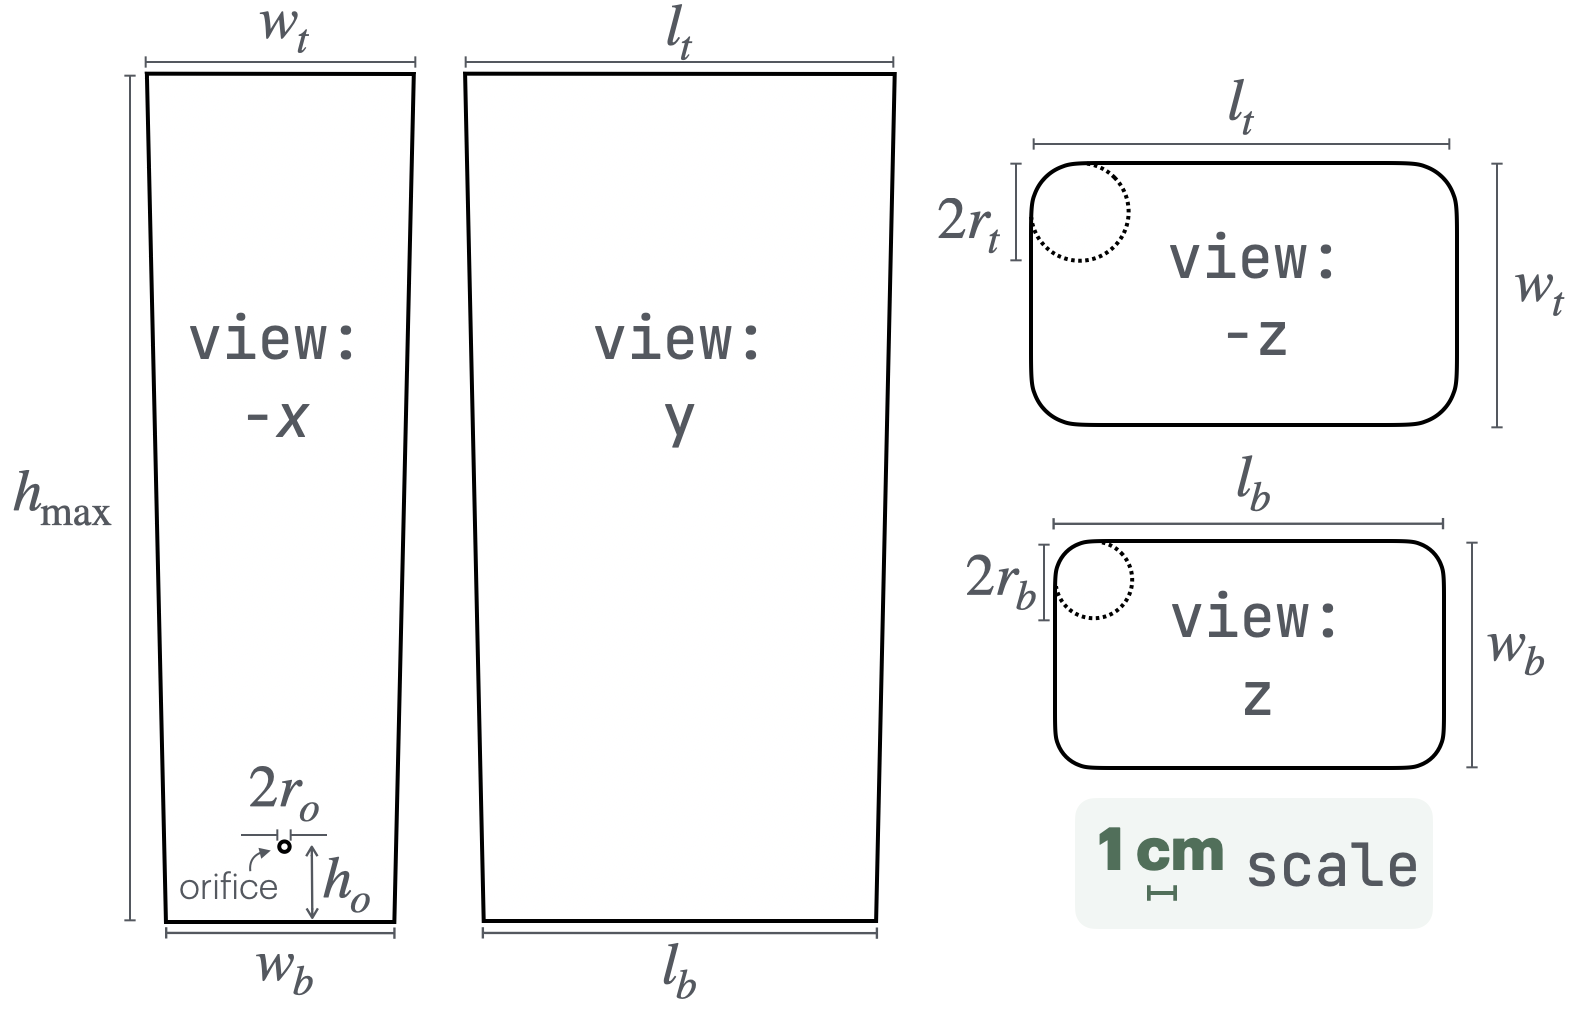
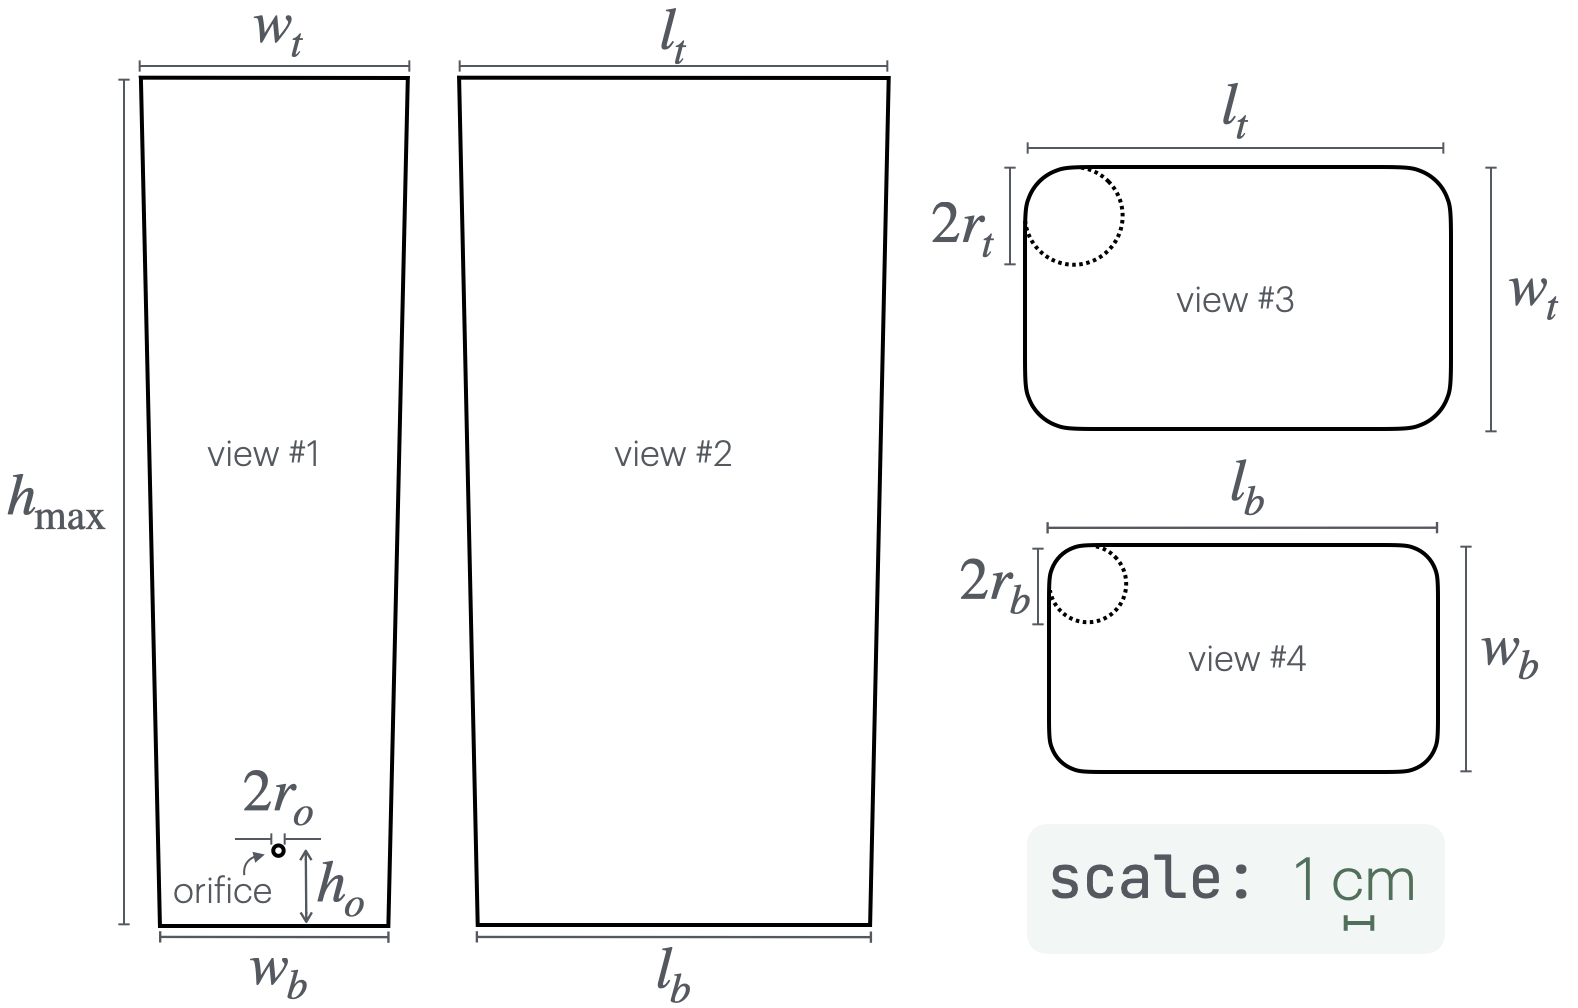
update paper

diff --git a/paper/tank_inv_prob_CES.tex b/paper/tank_inv_prob_CES.tex
@@ -178,9 +178,18 @@ We aim to reconstruct the shape of an exogenous, heavy solid contained in a tank
 
 % Research highlights
 \begin{highlights}
-\item 
-\item 
-\item 
+\item We combine experiments, mathematical modeling, and Bayesian statistical
+inversion theory to tackle an inverse problem of shape reconstruction, concerning a
+tank draining of liquid.
+\item The inverse problem is to reconstruct, with quantified uncertainty, the shape of an
+exogenous solid contained in a draining tank from measurements of the liquid level
+in the tank as it drains, driven by gravity, through a small orifice in its side.
+\item We conduct experiments with a draining tank containing water and a glass bottle;
+using our dynamic model of the liquid level and the water level time series data
+from the experiment, we reconstruct the shape of the bottle with <10% error.
+\item Our approach may be practically useful to non-destructively characterize the
+geometry of an unknown solid, or a bed of packed solid particles, inside of an
+opaque tank.
 \end{highlights}
 
 
@@ -196,7 +205,7 @@ We aim to reconstruct the shape of an exogenous, heavy solid contained in a tank
 
 
 \section{Introduction}
-Throughout engineering and the applied sciences, we may encounter an open-top tank, draining of liquid via gravity-driven flow through a small orifice (a \emph{draining tank}).
+In engineering and applied sciences, we often encounter an open-top tank from which liquid drains through a small orifice under gravity-driven flow, exiting to the atmosphere (hereafter, a \emph{draining tank}).
 Mathematical models of the dynamics of the liquid level in a draining tank are useful for designing the tank and orifice geometry, predicting emptying times, forecasting outlet flow rates, controlling the liquid level by manipulating an input stream, and inferring the liquid level from the outlet flow rate \cite{d2021torricelli,seborg2016process,groetsch1993inverse_tl,groetsch1999inverse}.
 
 \begin{mytcbox}[label=box:waterclocks, breakable]{Ancient water clocks}
@@ -212,9 +221,12 @@ The preserved Karnak clepsydra from $\sim$1300 BC \cite{schomberg2018karnak} is 
 %The geometry of an ideal clepsydra would produce a constant rate of decrease in the liquid level. However, the geometry of e.g. the preserved Karnak clepsydra from $\sim$1300 BC \cite{schomberg2018karnak}, an inverted truncated cone, does not. Though, perhaps, its wider top was intended to compensate for the faster outflow when the liquid level is higher.
 
 % Italian physicist and mathematician 
-Evangelista Torricelli (1608-1647) made a fundamental observation for mathematically modeling the liquid level in a draining tank: the velocity $v$ at which liquid flows out of a small orifice in a tank is proportional to the square root of the height of liquid above the orifice, $\Delta h$, i.e. $v\propto \sqrt{\Delta h}$ \cite{mills1982newton}.
+Evangelista Torricelli (1608-1647) made a fundamental observation for mathematically modeling the liquid level in a draining tank: 
+the velocity $v$ at which liquid flows out of the orifice is proportional to the square root of the height of liquid above the orifice, $z$, i.e. $v\propto \sqrt{z}$ \cite{mills1982newton}.
 % TODO: check that he didn't know g!
-Today, we recover Torricelli's observation from Daniel Bernoulli's (1700–1782) equation \cite{welty2020fundamentals}, a mechanical energy balance applied to the steady, plug flow of an incompressible, inviscid fluid through the small orifice, neglecting frictional forces. This gives \emph{Torricelli's law}: $v=\sqrt{2 g \Delta h}$, with $g$ the acceleration due to gravity. \cite{d2021torricelli,teoman2022discharge}
+Today, we recover Torricelli's observation by applying Bernoulli's (1700–1782) equation \cite{welty2020fundamentals} to a streamline of the flow of liquid from (1) a point just below the top of the liquid inside the tank to (2) a point in the jet just outside of the orifice. 
+Bernoulli's equation is a mechanical energy balance along this flow streamline, approximating the liquid as ideal (incompressible and inviscid) and the flow as at steady-state. 
+This gives \emph{Torricelli's law}: $v=\sqrt{2 g z}$, with $g$ the gravitational acceleration constant. \cite{d2021torricelli,teoman2022discharge}
 
 A mass balance on a draining tank with Torricelli's law gives a first-order, [generally] nonlinear differential equation governing the liquid level in the tank over time \cite{groetsch1993inverse_tl,seborg2016process,debook}.
 The geometry of the tank affects the dynamics of the liquid level through its cross-sectional area as a function of height.
@@ -222,11 +234,10 @@ The cross-sectional area of the orifice affects the emptying time; theoretically
 % TODO: a name for cross-sectional area parallel to the ground?
 However, a \emph{discharge coefficient} \cite{de2000pin,blasone2015discharge,wadhwa2021study,liu2008drainage} must be introduced into the model for agreement with experimentally-measured volumetric outflow rates \cite{farmer1992physical,driver1998torricelli,brady2009siphons,rother2024modelling,paldy1963apparatus,ivanov2014testing,williams2021vessel,pavesi2019investigating,planinvsivc2011holes,saleta2005experimental,lopac2015water,powell2012carrying}.
 The discharge coefficient \cite{teoman2022discharge,hicks2014determining,blasone2015discharge,lienhard1984velocity,wadhwa2021study}
-(i) is defined as the ratio of the observed outlet volumetric flow rate to that predicted by Torricelli's law and the area of the orifice \cite{hicks2014determining};
+(i) is defined as the ratio of the observed outlet volumetric flow rate to that predicted by Torricelli's law, plug flow for the jet, and the area of the orifice \cite{hicks2014determining};
 (ii) accounts for (a) the vena contracta of the liquid jet (the cross-sectional area of the liquid jet issuing from the orifice is smaller than that of the orifice, owing to fluid streamlines in the tank, near the orifice, non-perpendicular to the face of the orifice \cite{horsch2020simple}), (b) frictional losses across the orifice, and (c) non-uniformity of the velocity profile; and
 (iii) depends on the rheology of the liquid, the geometry of the orifice, and, for laminar flow, the Reynolds number \cite{teoman2022discharge}. 
 %  and (ii) depends on the rheology of the fluid and the geometry of the orifice. 
-
 
 In contrast to the \emph{forward problem} of using this dynamic model to predict the trajectory of the liquid level in a draining tank of a given geometry, Groetsch \cite{groetsch1993inverse_tl,groetsch1999inverse} framed an \emph{inverse problem} \cite{groetsch1993inverse,neto2012introduction,tarantola2005inverse}: reconstruct the shape of the tank from its liquid level over time as it drains. 
 While impossible to infer the precise geometry of the tank, one can leverage the dynamic model to determine the cross-sectional area of the tank as a function of height from the liquid level as a function of time. (The rate of decrease of the liquid level provides information about the cross-sectional area of the tank at that height. The outlet flow rate depends on the height of water only; so, wider [say, cylindrical] tanks drain more slowly.)

diff --git a/paper/SI.tex b/paper/SI.tex
@@ -148,11 +148,11 @@ Supporting Information: Scanning the cross-sectional area of a solid inside an o
 \begin{figure}[h!]
 	\centering
 	 \begin{subfigure}[b]{0.35\textwidth}
-		\includegraphics[width=\textwidth]{../drawings_and_photos/views.png} \caption{}
+		\includegraphics[width=\textwidth]{../drawings_and_photos/views.png} \caption{views of tank}
 	\end{subfigure}
 	
 	\begin{subfigure}[b]{0.8\textwidth}
-		\includegraphics[width=\textwidth]{../drawings_and_photos/tank_geometry.png} \caption{}
+		\includegraphics[width=\textwidth]{../drawings_and_photos/tank_geometry.png} \caption{tank geometry from each view}
 	\end{subfigure}
 	\caption{Geometry of our tank. 
 	(a) The 3D geometry of the tank with a coordinate axes to define the views we show. (b) The tank from four views, drawn approximately to scale, with variables denoting the dimensions marked. Each cross-section of the tank, taken parallel with the ground, is a rounded rectangle.
